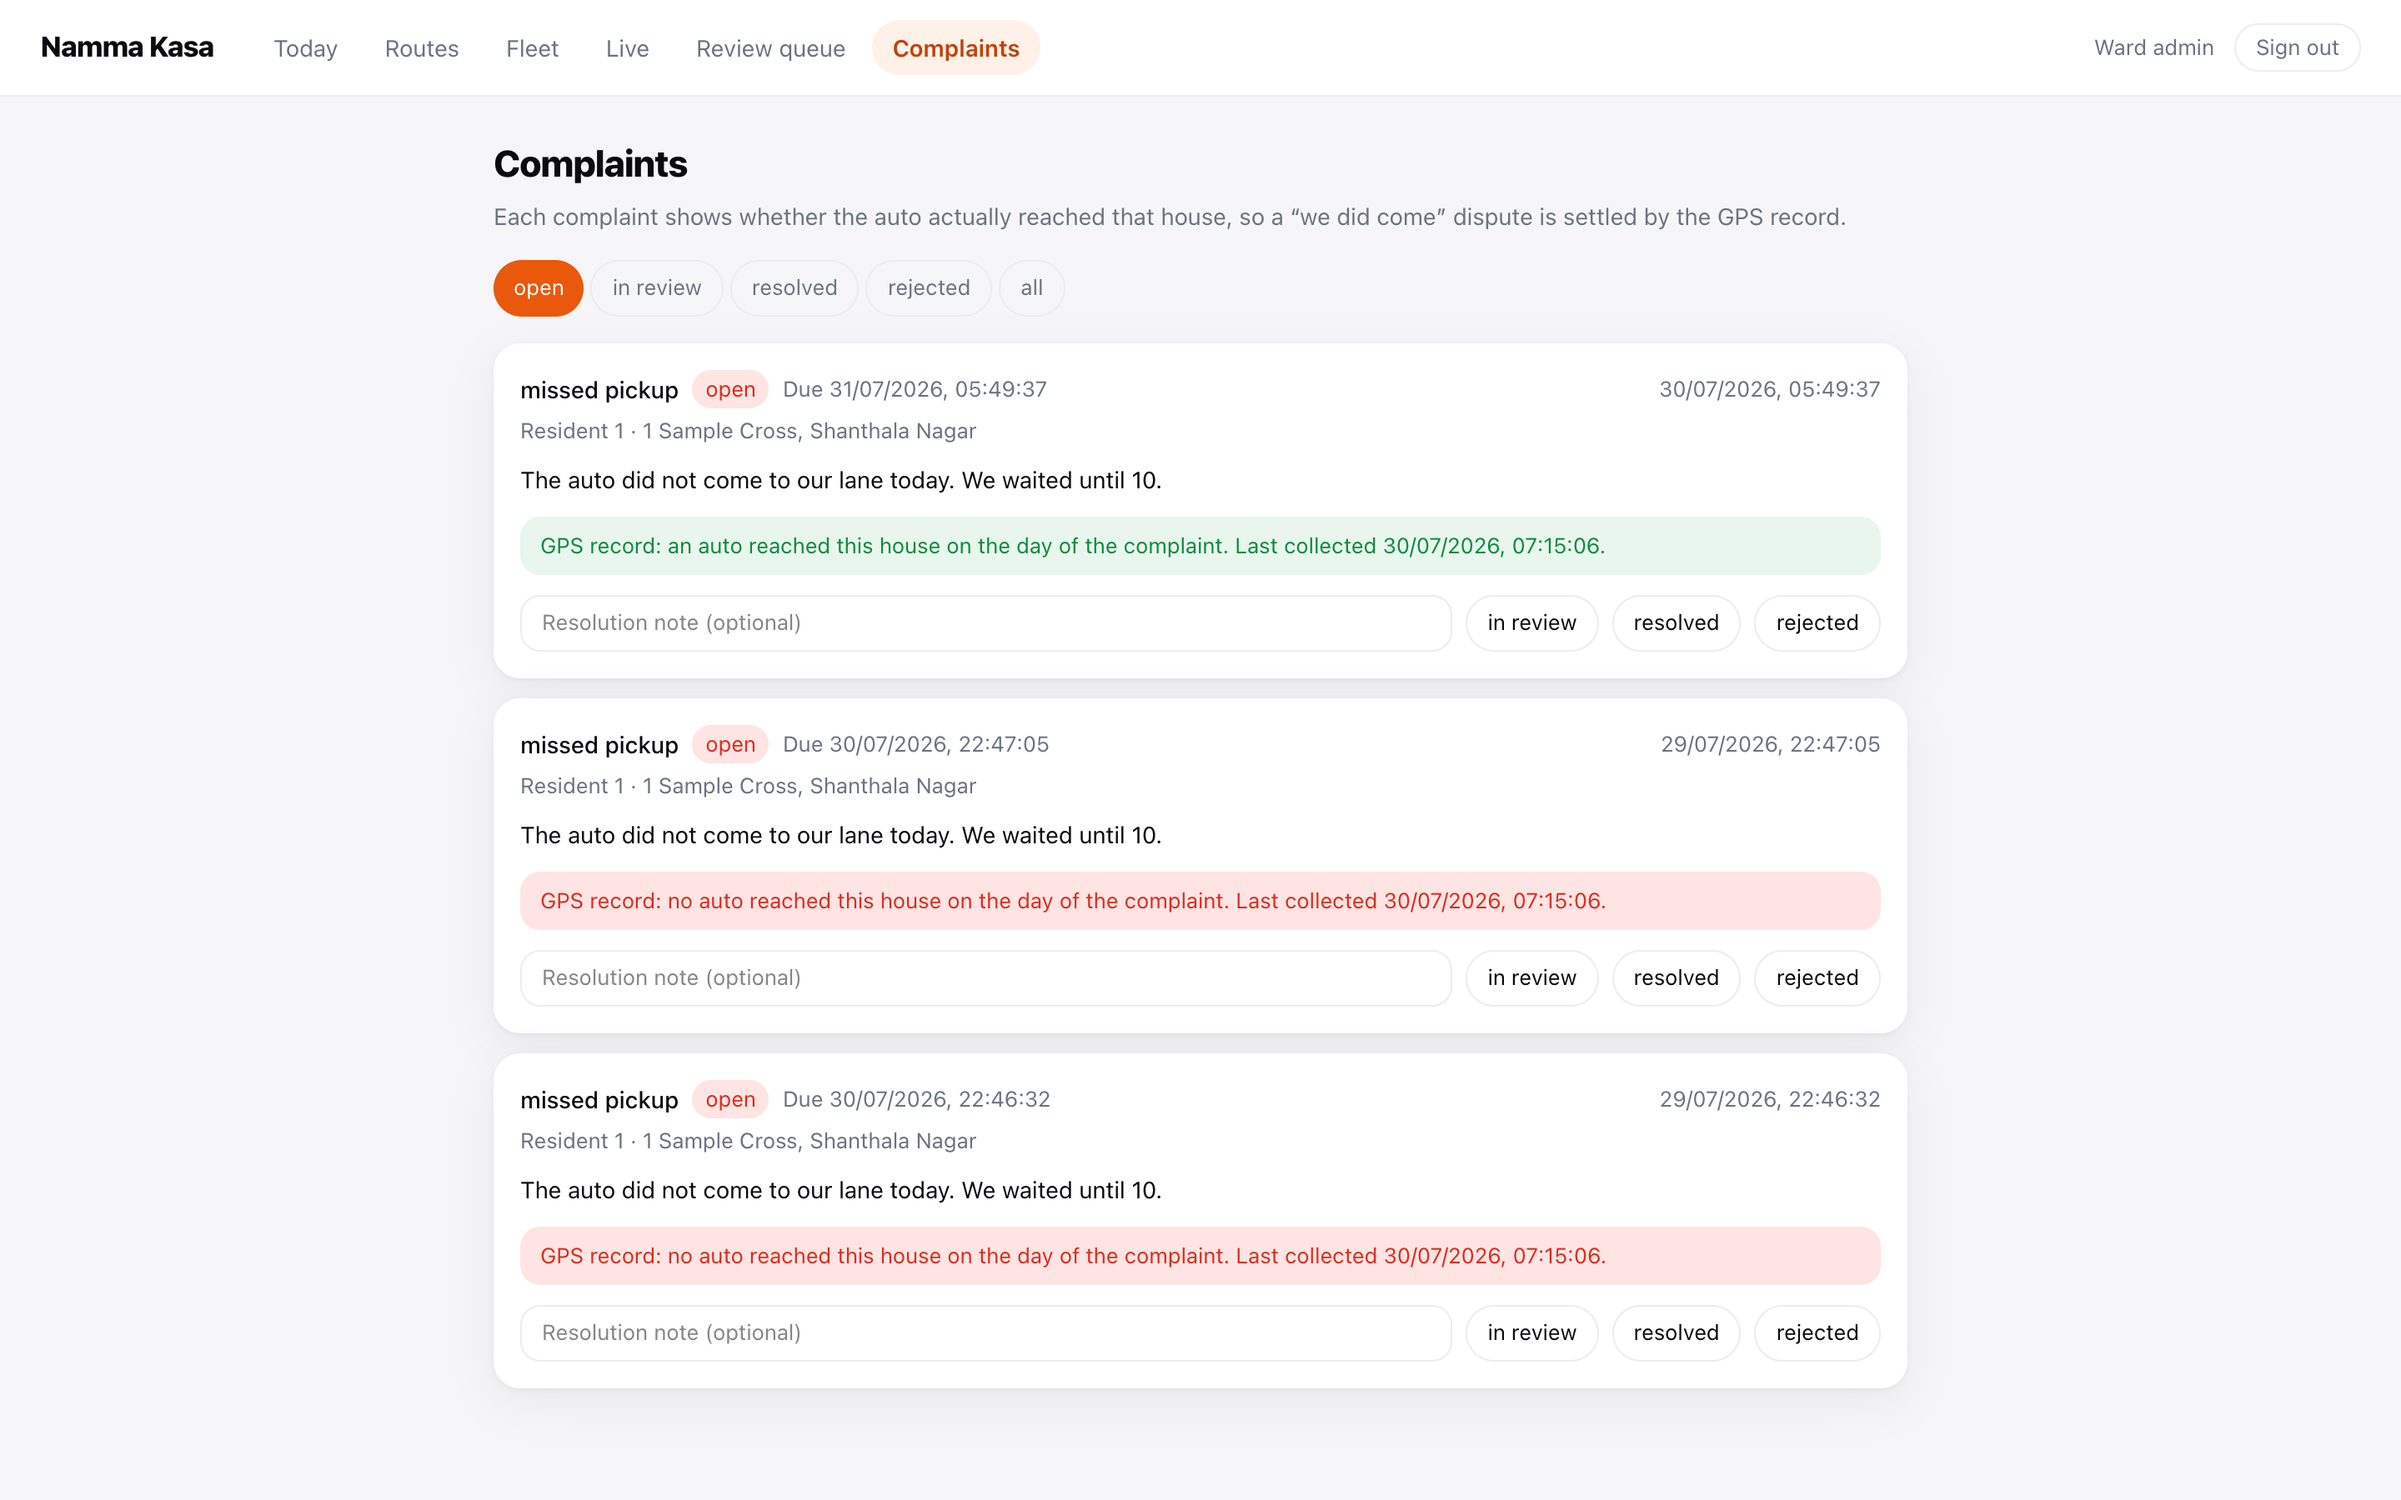
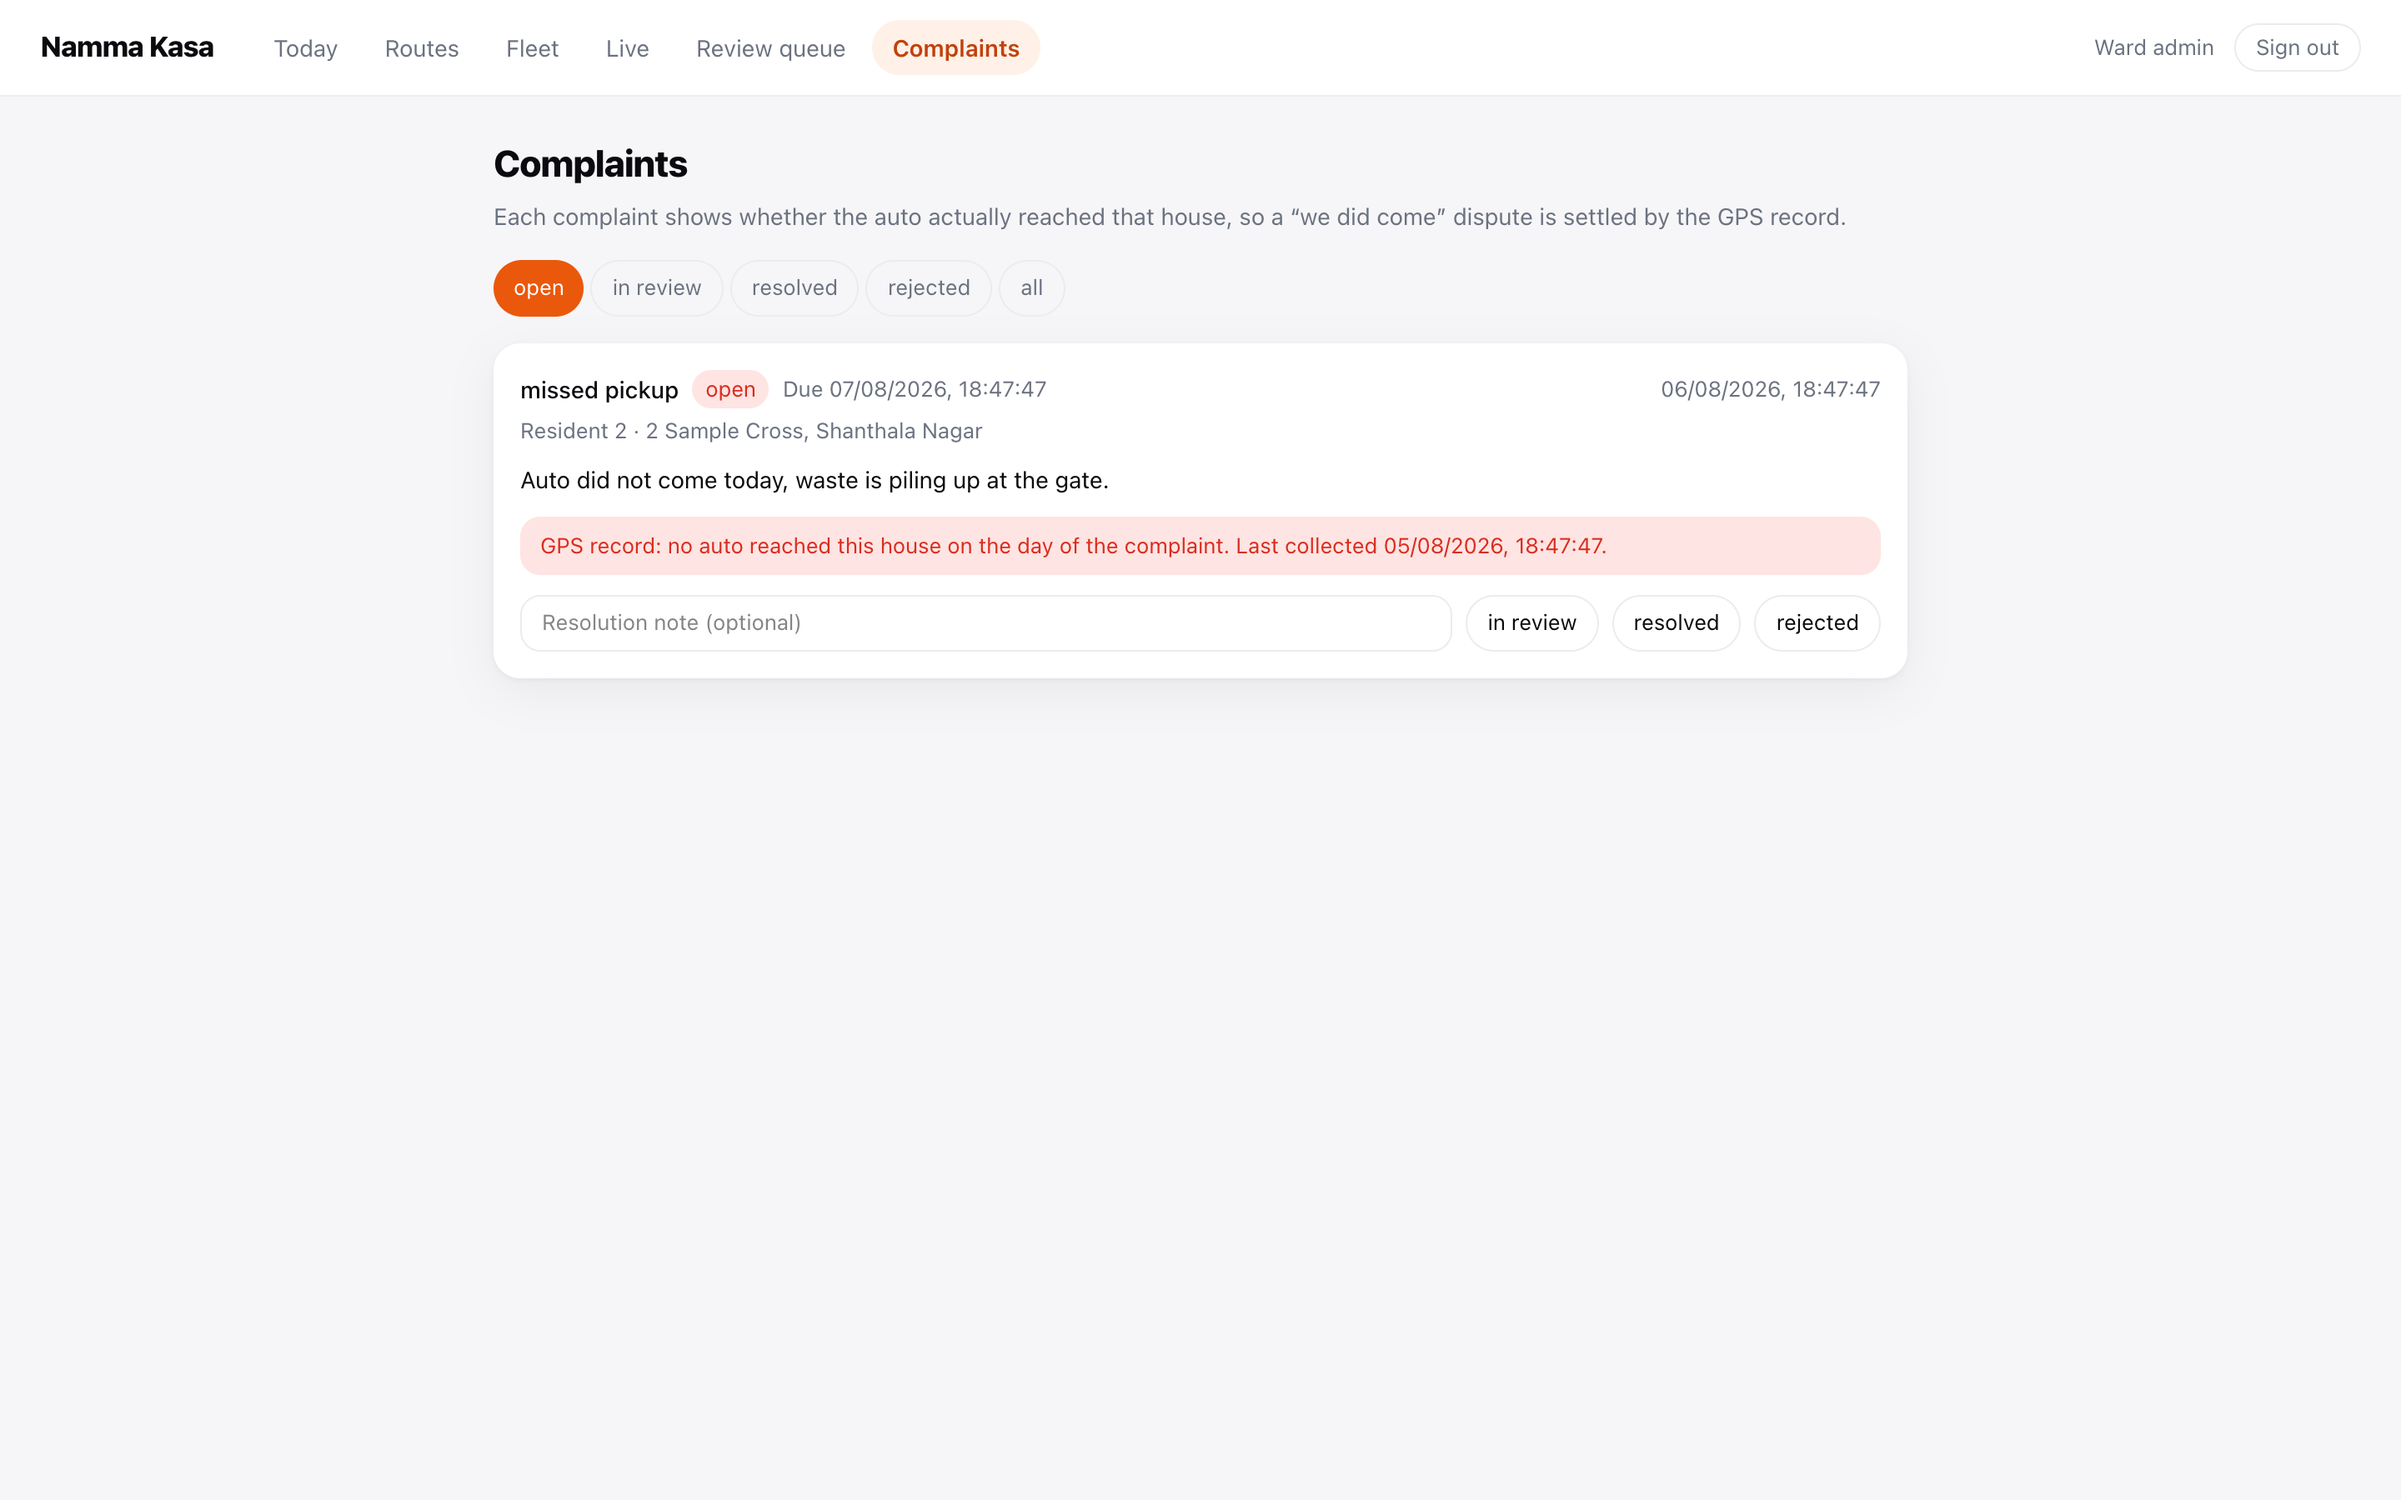
Give the seed a day's history, and stop the suites depending on the caller's shell
The seed built a ward that had never collected anything: no trip, no collection
evidence, no complaint, and a single driver who had never signed in. Anything
needing those worked only on a database an earlier run happened to dirty. It now
lays down yesterday's completed pass with its trail and the collections it
produced, a second driver who already holds an account, and two complaints — one
open, one answered.

That last one is why the Complaints page photographed as "Nothing here." The
screenshots were captured after the unit suite had run against this same dev
database and mutated the seeded households, so both pages that exist to show
queued work documented an empty state. Recaptured from a fresh seed, the
complaints page carries the GPS verdict beside the complaint, which is the whole
reason that page exists; the review queue is back to what it was two commits ago.
A smoke run is deliberately not staged first — adopting the trail remaps the
pending household and empties the queue again, trading one blank page for
another.

pnpm e2e assumed the caller's shell. Gradle needs a JDK and got "Unable to
locate a Java Runtime"; adb is not on PATH under Android Studio, and failing to
resolve it aborted the run with 127 under set -e, after the API and portal legs
had already passed. Both resolve from the usual install locations now, and a
genuinely absent SDK skips the mobile leg rather than failing the suite.
[…]

diff --git a/apps/api/scripts/seed.ts b/apps/api/scripts/seed.ts
@@ -10,6 +10,7 @@ import { join } from "node:path";
 import * as argon2 from "argon2";
 import { Kysely, PostgresDialect, sql } from "kysely";
 import { Pool } from "pg";
+import { DEFAULT_COMPLAINT_SLA_HOURS } from "@namma-kasa/shared";
 import type { Database } from "../src/db/types";
 
 const DATABASE_URL =
@@ -19,6 +20,8 @@ const DEV_PASSWORD = "devpassword";
 const SUPER_ADMIN_PHONE = "919000000001";
 const WARD_ADMIN_PHONE = "919000000002";
 const DRIVER_PHONE = "919999900001";
+/** Already signed in, unlike DRIVER_PHONE which the app still has to claim. */
+const VETERAN_DRIVER_PHONE = "919999900002";
 const RESIDENT_PHONES = ["919888800001", "919888800002", "919888800003"];
 
 const db = new Kysely<Database>({
@@ -165,13 +168,65 @@ async function main(): Promise<void> {
     .returningAll()
     .executeTakeFirstOrThrow();
 
-  await db
-    .insertInto("auto_route_assignments")
-    .values({ auto_id: auto.id, route_id: route.id, assigned_by: wardAdmin.id })
-    .execute();
+  const veteranAuto = await db
+    .insertInto("autos")
+    .values({
+      registration_number: "KA01AB5678",
+      capacity_kg: 500,
+      ward_id: ward.id,
+      status: "assigned",
+      onboarded_by: wardAdmin.id,
+    })
+    .returningAll()
+    .executeTakeFirstOrThrow();
+
+  // A second driver who has already claimed their account. A ward runs several
+  // drivers and they are not all newly provisioned — and without one, anything
+  // that needs a signed-in driver only works on a database an earlier run
+  // happened to leave behind.
+  const veteranUser = await db
+    .insertInto("users")
+    .values({
+      phone: VETERAN_DRIVER_PHONE,
+      auth_provider: "password",
+      password_hash: passwordHash,
+      role: "driver",
+      locale: "kn",
+      consented_at: new Date(),
+    })
+    .returningAll()
+    .executeTakeFirstOrThrow();
+
+  const veteranDriver = await db
+    .insertInto("drivers")
+    .values({
+      ward_id: ward.id,
+      user_id: veteranUser.id,
+      full_name: "Lakshmi Devi",
+      phone: VETERAN_DRIVER_PHONE,
+      license_number: "KA0120170004321",
+      emergency_contact: "919000000008",
+    })
+    .returningAll()
+    .executeTakeFirstOrThrow();
+
+  for (const assigned of [auto, veteranAuto]) {
+    await db
+      .insertInto("auto_route_assignments")
+      .values({ auto_id: assigned.id, route_id: route.id, assigned_by: wardAdmin.id })
+      .execute();
+  }
   await db
     .insertInto("driver_auto_assignments")
     .values({ driver_id: driver.id, auto_id: auto.id, assigned_by: wardAdmin.id })
+    .execute();
+  await db
+    .insertInto("driver_auto_assignments")
+    .values({
+      driver_id: veteranDriver.id,
+      auto_id: veteranAuto.id,
+      assigned_by: wardAdmin.id,
+    })
     .execute();
 
   // Three households along the trail, plus one outside every route so the
@@ -182,6 +237,7 @@ async function main(): Promise<void> {
     [77.5938, 12.9688],
   ];
 
+  const residences: { id: string; full_name: string }[] = [];
   for (const [index, phone] of RESIDENT_PHONES.entries()) {
     const user = await db
       .insertInto("users")
@@ -197,7 +253,7 @@ async function main(): Promise<void> {
       .executeTakeFirstOrThrow();
 
     const [lng, lat] = homes[index];
-    await db
+    const household = await db
       .insertInto("households")
       .values({
         user_id: user.id,
@@ -208,7 +264,9 @@ async function main(): Promise<void> {
         route_id: route.id,
         mapping_status: "auto",
       })
-      .execute();
+      .returningAll()
+      .executeTakeFirstOrThrow();
+    residences.push({ id: household.id, full_name: household.full_name });
   }
 
   const unmappedUser = await db
@@ -236,18 +294,126 @@ async function main(): Promise<void> {
     })
     .execute();
 
+  // Yesterday's completed pass, with its trail and the collection evidence it
+  // produced. A ward that has never had a single collection is not a realistic
+  // starting state, and a fixture without one is a trap: tests that need a trip
+  // pass only on a database some earlier run happened to dirty.
+  const yesterday = new Date(Date.now() - 24 * 60 * 60 * 1000);
+  const trip = await db
+    .insertInto("trips")
+    .values({
+      route_id: route.id,
+      auto_id: veteranAuto.id,
+      driver_id: veteranDriver.id,
+      pass_number: 1,
+      service_date: yesterday.toISOString().slice(0, 10),
+      status: "completed",
+      started_at: new Date(yesterday.getTime() - 45 * 60_000),
+      ended_at: yesterday,
+      end_reason: "driver",
+      distance_covered_m: 1200,
+    })
+    .returningAll()
+    .executeTakeFirstOrThrow();
+
+  // A short trail down the same street the households sit on, so the trip has
+  // enough positions to be adopted as the route's path (FR-ROUTE-04).
+  for (let i = 0; i < 6; i++) {
+    await db
+      .insertInto("location_pings")
+      .values({
+        trip_id: trip.id,
+        auto_id: veteranAuto.id,
+        lat: 12.9612 + i * 0.0004,
+        lng: 77.5925,
+        accuracy_m: 6,
+        recorded_at: new Date(yesterday.getTime() - (6 - i) * 60_000),
+      })
+      .execute();
+  }
+
+  // The evidence the trail produced: each mapped household was served.
+  const served = await db
+    .selectFrom("households")
+    .select("id")
+    .where("route_id", "=", route.id)
+    .execute();
+  for (const household of served) {
+    await db
+      .insertInto("household_collections")
+      .values({
+        household_id: household.id,
+        trip_id: trip.id,
+        route_id: route.id,
+        pass_number: 1,
+        detected_at: yesterday,
+      })
+      .onConflict((oc) => oc.doNothing())
+      .execute();
+  }
+
+  // One complaint still open and one already answered. A ward with a complaints
+  // desk and no complaints in it cannot demonstrate the thing that desk is for —
+  // the GPS evidence beside each one — so the page photographs and demos as an
+  // empty state. The open one is deliberately about the *unserved* household so
+  // its evidence reads "the auto did not reach this house".
+  //
+  // Status is set with an UPDATE rather than on insert so the journal trigger
+  // writes the transition, exactly as it does for a real admin action.
+  const [firstResident, secondResident] = residences;
+  const openComplaint = await db
+    .insertInto("complaints")
+    .values({
+      household_id: secondResident.id,
+      ward_id: ward.id,
+      route_id: route.id,
+      category: "missed_pickup",
+      description: "Auto did not come today, waste is piling up at the gate.",
+      sla_due_at: new Date(Date.now() + DEFAULT_COMPLAINT_SLA_HOURS * 60 * 60 * 1000),
+    })
+    .returningAll()
+    .executeTakeFirstOrThrow();
+
+  const resolvedComplaint = await db
+    .insertInto("complaints")
+    .values({
+      household_id: firstResident.id,
+      ward_id: ward.id,
+      route_id: route.id,
+      category: "late",
+      description: "Auto came very late in the evening.",
+      created_at: yesterday,
+      sla_due_at: new Date(yesterday.getTime() + DEFAULT_COMPLAINT_SLA_HOURS * 60 * 60 * 1000),
+    })
+    .returningAll()
+    .executeTakeFirstOrThrow();
+
+  await db
+    .updateTable("complaints")
+    .set({
+      status: "resolved",
+      assigned_to: wardAdmin.id,
+      resolution_note: "Driver confirmed the pass ran late; schedule reinforced with the operator.",
+      updated_at: new Date(),
+    })
+    .where("id", "=", resolvedComplaint.id)
+    .execute();
+
   console.log(`
 Seed complete.
 
   Ward            ${ward.name} (${ward.id})
   Route           ${route.name} (${route.id}) — 2 passes/day, 06:00–10:00
-  Auto            ${auto.registration_number}
+  Autos           ${auto.registration_number}, ${veteranAuto.registration_number}
   Driver phone    ${DRIVER_PHONE}  (pre-provisioned, no account yet)
+  Driver (active) ${VETERAN_DRIVER_PHONE} / ${DEV_PASSWORD}
 
   Super admin     ${SUPER_ADMIN_PHONE} / ${DEV_PASSWORD}
   Ward admin      ${WARD_ADMIN_PHONE} / ${DEV_PASSWORD}
   Residents       ${RESIDENT_PHONES.join(", ")} / ${DEV_PASSWORD}
   Review queue    1 household pending route assignment
+  History         1 completed pass yesterday, ${served.length} households served
+  Complaints      1 open (${openComplaint.category}), 1 resolved (${resolvedComplaint.category})
 `);
   await db.destroy();
 }
